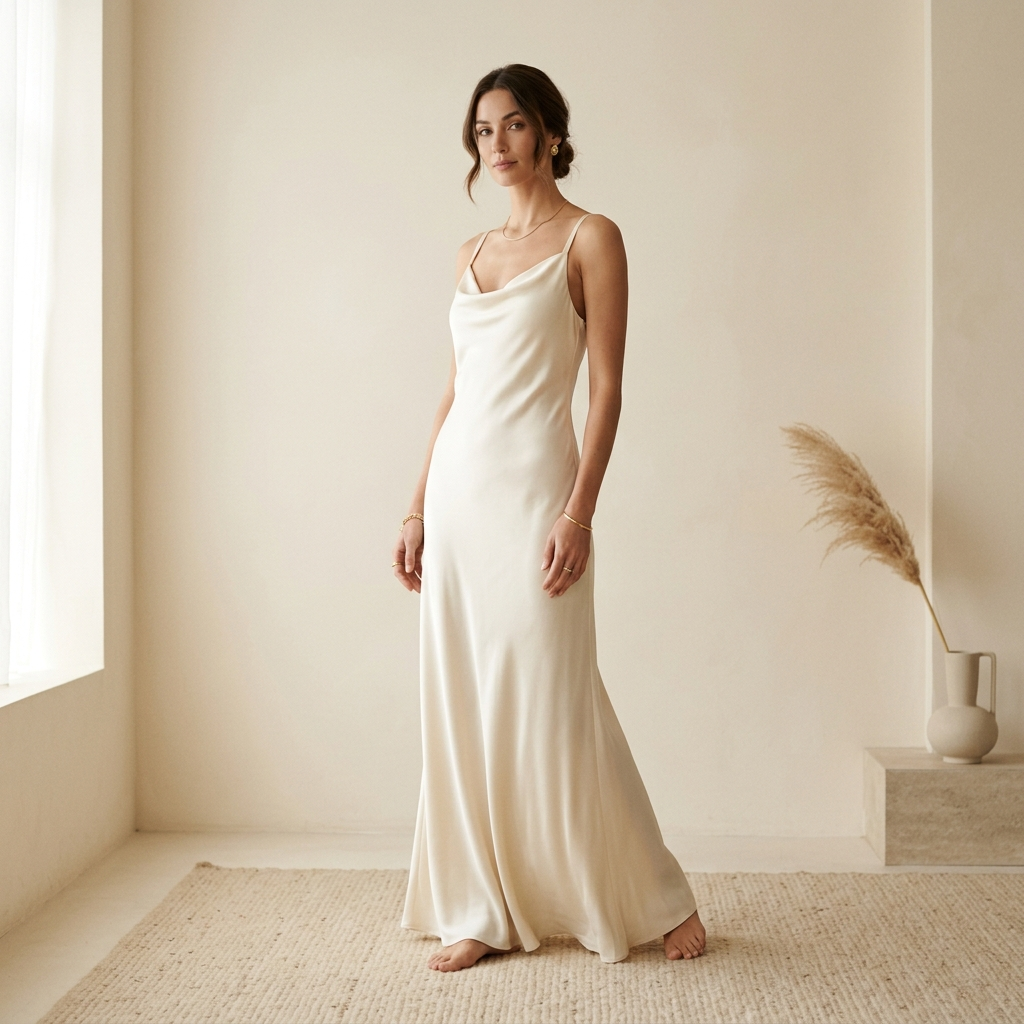
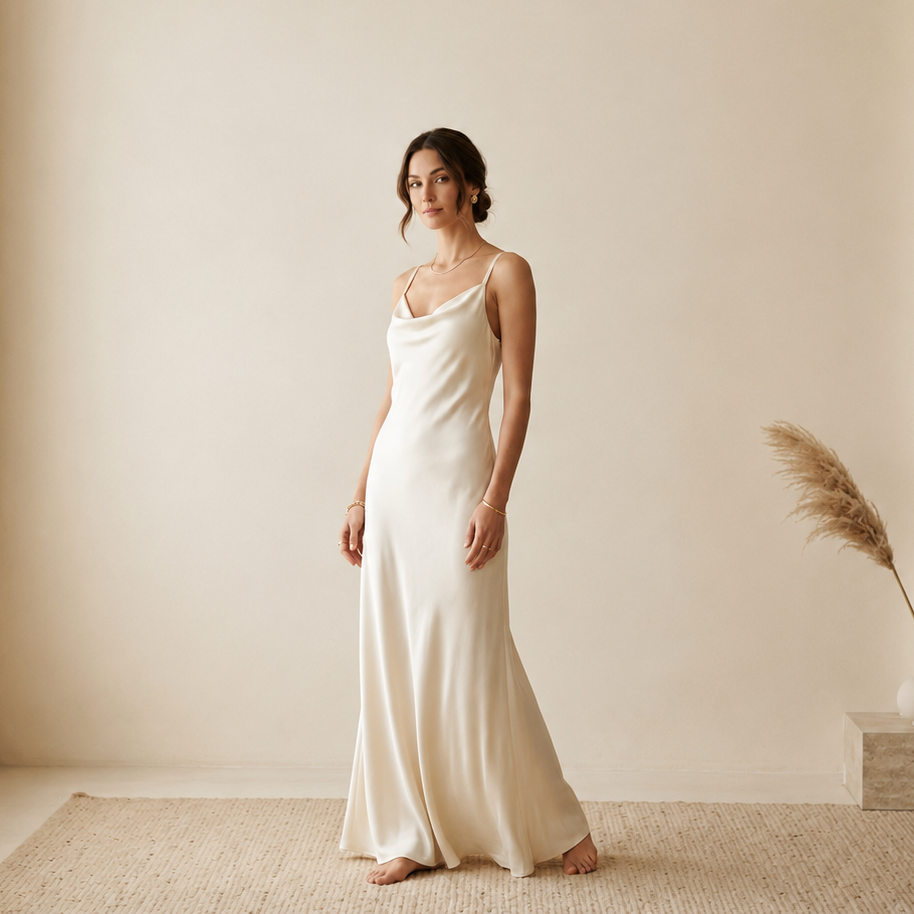
hero update

diff --git a/style.css b/style.css
@@ -178,11 +178,12 @@ header {
     left: 0;
     width: 100%;
     z-index: 1000;
-    height: 90px;
+    height: 100px; /* Increased from 90px for more elegance */
     display: flex;
     align-items: center;
     transition: all 0.6s cubic-bezier(0.16, 1, 0.3, 1);
     background: transparent;
+    border-bottom: 1px solid rgba(0,0,0,0.02); /* Very subtle separator */
 }
 
 header.scrolled {
@@ -221,7 +222,7 @@ header.scrolled {
     font-family: var(--font-headline);
     font-size: 2.25rem;
     text-transform: uppercase;
-    letter-spacing: 0.15em;
+    letter-spacing: 0.25em; /* Increased for a more sophisticated luxury feel */
     font-weight: 300;
 }
 
@@ -232,7 +233,7 @@ header.scrolled {
 .nav-links {
     display: flex;
     justify-content: center;
-    gap: 40px;
+    gap: 48px; /* Slightly wider gap for airier navigation */
 }
 
 .header-right {
@@ -326,9 +327,13 @@ header.scrolled {
     display: flex;
     align-items: center;
     justify-content: flex-start;
-    background: url('assets/hero.png') no-repeat center 30%/cover;
+    background-color: #f7f7f0; /* Matches the image's wall color for merging */
+    background-image: url('assets/hero.png');
+    background-repeat: no-repeat;
+    background-position: center 35%; /* Pushes the image down by showing more of the top area */
+    background-size: cover;
     position: relative;
-    padding-top: 90px;
+    padding-top: 240px; /* Even more breathing room for a premium editorial feel */
 }
 
 .hero::before {
@@ -349,18 +354,20 @@ header.scrolled {
 .hero-content h1 {
     font-size: clamp(3rem, 10vw, 6rem);
     line-height: 0.9;
-    margin-bottom: 32px;
+    margin-bottom: 40px;
     color: #fff;
     font-weight: 300;
+    letter-spacing: -0.02em;
 }
 
 .hero-content p {
     font-size: 1.125rem;
     color: rgba(255,255,255,0.9);
-    margin-bottom: 48px;
+    margin-bottom: 56px;
     font-weight: 400;
     max-width: 500px;
-    letter-spacing: 0.02em;
+    letter-spacing: 0.03em;
+    line-height: 1.8;
 }
 
 @media (max-width: 768px) {
@@ -368,9 +375,9 @@ header.scrolled {
         height: 100vh;
         align-items: center;
         text-align: center;
-        padding-top: 0;
-        justify-content: center; /* Center on mobile */
-        background-position: center 35%;
+        padding-top: 200px; /* Increased mobile spacing */
+        justify-content: center;
+        background-position: center 40%; /* Adjusted for mobile composition */
     }
     .hero-content {
         padding: 40px 20px;
